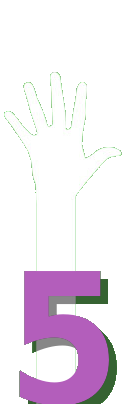
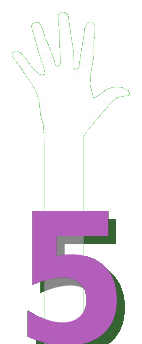
fix(ui): Vote-Counting-Fingers ohne Vollflächen-Kachel (#346)
* fix(ui): Vote-Counting-Fingers ohne Vollflächen-Kachel

Die spielerischen Finger deckten Abstimmen mit einer Primary-Kachel zu; jetzt schmal, light-only Kontrast und bündig unten links.

* fix(ui): Kontrast für Host-/Projection-Finger wiederherstellen

large und present bekommen wieder eine eng anliegende Light-Kontrastfläche; Vote-small bleibt schmal und bündig unten.

* fix(ui): Counting-Fingers-Hintergrund auf Theme-Primary

Ersetzt inverse-surface durch --mat-sys-primary für Light-Kontrast hinter den Finger-Grafiken.

* fix(ui): Counting-Fingers-Assets auf Content mit gleichem Padding zuschneiden

Entfernt die große transparente Kopfzone der PNGs und setzt CSS-Padding ringsum gleichmäßig, damit der Primary-Hintergrund eng an der Hand sitzt.

* fix(ui): Counting-Fingers-Ecken oben stark rund, unten eckig

Primary-Hintergrund mit extra-large Radius oben und ohne Abrundung unten.

* fix(ui): Host-Finger bündig an die Fragekarte setzen

Hebt den mobilen Stack-Gap unter dem Finger-Countdown auf und entfernt das untere Padding der Large-Variante.

* fix(ui): Finger-Primary immer, unten bündig an Footer bzw. Karte

Primary-Hintergrund auch in Dark Mode; kein unteres Padding. Vote sitzt am Viewport-/Footer-Unterrand, Host-Large bündig an der Fragekarte.

* fix(ui): Counting-Fingers wieder transparent und unten bündig

Kein Primary-Hintergrund mehr (Playful-Kontrast reicht); Assets unten ohne Padding, Vote/Host ohne unteren Gap.
[…]

diff --git a/apps/frontend/src/app/shared/countdown-fingers/countdown-fingers.component.ts b/apps/frontend/src/app/shared/countdown-fingers/countdown-fingers.component.ts
@@ -48,8 +48,8 @@ const FINGER_IMAGES: Record<number, string> = {
       :host.countdown-fingers-host--viewport {
         display: block;
         position: fixed;
-        /* Fallback ohne Anchor-API (Footer-Höhe variiert) */
-        bottom: max(5.5rem, env(safe-area-inset-bottom, 0px));
+        /* Bündig am unteren Viewport-Rand, kein Footer-/Safe-Area-Abstand */
+        bottom: 0;
         /* Linke Flucht wie .vote-page-Inhalt (zentrierte Spalte + horizontales Padding), nicht Viewport-Kante */
         left: calc(
           (100vw - min(100vw, var(--vote-page-max-width, 36rem))) / 2 +
@@ -59,23 +59,14 @@ const FINGER_IMAGES: Record<number, string> = {
         pointer-events: none;
       }
 
-      @supports (position-anchor: --_) {
-        :host.countdown-fingers-host--viewport {
-          position-anchor: --app-footer-anchor;
-          bottom: anchor(top);
-        }
-      }
-
       .countdown-fingers {
         display: flex;
         align-items: center;
         justify-content: center;
         box-sizing: border-box;
-        border-radius: 0.8rem;
-        background-color: light-dark(
-          var(--mat-sys-primary),
-          var(--mat-sys-surface-container-highest)
-        );
+        width: fit-content;
+        max-width: max-content;
+        background: transparent;
         pointer-events: none;
         user-select: none;
       }
@@ -86,7 +77,8 @@ const FINGER_IMAGES: Record<number, string> = {
       }
 
       .countdown-fingers--large {
-        padding: 0.45rem;
+        padding: 0;
+        background: transparent;
 
         .countdown-fingers__img {
           width: 120px;
@@ -96,19 +88,24 @@ const FINGER_IMAGES: Record<number, string> = {
       }
 
       .countdown-fingers--small {
-        padding: 0.3rem;
+        padding: 0;
+        background: transparent;
 
         .countdown-fingers__img {
-          width: 56px;
+          /* Kompakt unten links; Asset unten bündig am Content. */
+          width: 48px;
           height: auto;
         }
       }
 
       .countdown-fingers--present {
-        width: 100%;
-        height: 100%;
+        width: fit-content;
+        height: fit-content;
+        max-width: 100%;
+        max-height: 100%;
         min-height: 0;
-        padding: clamp(0.45rem, 1.4vmin, 0.9rem);
+        padding: 0;
+        background: transparent;
 
         .countdown-fingers__img {
           width: auto;

diff --git a/apps/frontend/src/app/shared/countdown-fingers/countdown-fingers.component.spec.ts b/apps/frontend/src/app/shared/countdown-fingers/countdown-fingers.component.spec.ts
@@ -1,4 +1,6 @@
 import { TestBed } from '@angular/core/testing';
+import { readFileSync } from 'node:fs';
+import { resolve } from 'node:path';
 import { describe, expect, it } from 'vitest';
 import { CountdownFingersComponent } from './countdown-fingers.component';
 
@@ -24,5 +26,34 @@ describe('CountdownFingersComponent', () => {
     expect(fixture.nativeElement.querySelector('[role="img"]').getAttribute('aria-label')).toBe(
       '1 Sekunde, durch einen Finger dargestellt',
     );
+  });
+
+  it('hält Vote-Fingers transparent, bündig unten links', () => {
+    const fixture = TestBed.createComponent(CountdownFingersComponent);
+    fixture.componentRef.setInput('seconds', 4);
+    fixture.componentRef.setInput('size', 'small');
+    fixture.detectChanges();
+
+    const host = fixture.nativeElement as HTMLElement;
+    expect(host.classList.contains('countdown-fingers-host--viewport')).toBe(true);
+
+    const styles = readFileSync(
+      resolve(process.cwd(), 'src/app/shared/countdown-fingers/countdown-fingers.component.ts'),
+      'utf8',
+    );
+
+    expect(styles).toMatch(/countdown-fingers-host--viewport[\s\S]*?position:\s*fixed/);
+    expect(styles).toMatch(/countdown-fingers-host--viewport[\s\S]*?bottom:\s*0;/);
+    expect(styles).not.toMatch(/bottom:\s*max\(5\.5rem/);
+    expect(styles).not.toMatch(/position-anchor:\s*--app-footer-anchor/);
+    expect(styles).toMatch(/countdown-fingers-host--viewport[\s\S]*?left:\s*calc\(/);
+    expect(styles).toMatch(/width:\s*fit-content/);
+    expect(styles).toMatch(/countdown-fingers--small[\s\S]*?background:\s*transparent/);
+    expect(styles).toMatch(/countdown-fingers--large[\s\S]*?background:\s*transparent/);
+    expect(styles).toMatch(/countdown-fingers--present[\s\S]*?background:\s*transparent/);
+    expect(styles).not.toMatch(/background:\s*var\(--mat-sys-primary\)/);
+    expect(styles).toMatch(/countdown-fingers--small[\s\S]*?padding:\s*0/);
+    expect(styles).toMatch(/countdown-fingers--small[\s\S]*?width:\s*48px/);
+    expect(styles).toMatch(/countdown-fingers--present[\s\S]*?width:\s*fit-content/);
   });
 });

diff --git a/apps/frontend/src/app/features/session/session-host/session-host.component.scss b/apps/frontend/src/app/features/session/session-host/session-host.component.scss
@@ -279,6 +279,7 @@
   .session-host__run {
     gap: var(--host-mobile-stack-gap);
     padding-bottom: var(--host-mobile-safe-bottom);
+    --session-host-finger-to-card-gap: var(--host-mobile-stack-gap);
   }
 
   .session-host--with-channel-tabs .session-host__channel-panel {
@@ -2865,6 +2866,7 @@
   display: flex;
   flex-direction: column;
   gap: 0;
+  --session-host-finger-to-card-gap: 0px;
 }
 
 .session-host__meta-sound-control {
@@ -5149,7 +5151,22 @@ button.session-host__btn-discussion {
 .session-host__finger-countdown {
   display: flex;
   justify-content: center;
+  align-items: flex-end;
   margin: 0;
+  /* Bündig an die folgende Fragekarte; hebt den Run-Stack-Gap darunter auf. */
+  margin-bottom: calc(-1 * var(--session-host-finger-to-card-gap, 0px));
+  line-height: 0;
+}
+
+.session-host__finger-countdown + .session-host__question-card,
+.session-host__finger-countdown + .session-host__qa-card {
+  margin-top: 0;
+}
+
+/* Falls zwischen Finger und Karte noch ein Banner steht: Gap nur zur Karte schließen. */
+.session-host__finger-countdown + .session-host__discussion-banner + .session-host__question-card,
+.session-host__finger-countdown + .session-host__discussion-banner + .session-host__qa-card {
+  margin-top: 0;
 }
 
 .session-host__rating {

diff --git a/apps/frontend/src/app/features/session/session-present/session-projection-quiz.component.spec.ts b/apps/frontend/src/app/features/session/session-present/session-projection-quiz.component.spec.ts
@@ -533,6 +533,17 @@ describe('SessionProjectionQuizComponent', () => {
     expect(stage.classList.contains('session-projection-quiz--fingers')).toBe(true);
     expect(fixture.nativeElement.querySelector('app-countdown-fingers')).toBeTruthy();
     expect(fixture.nativeElement.querySelector('.session-projection-quiz__countdown')).toBeNull();
+    expect(fixture.nativeElement.querySelector('.session-projection-quiz__fingers')).toBeTruthy();
+    const styles = readFileSync(
+      resolve(
+        process.cwd(),
+        'src/app/features/session/session-present/session-projection-quiz.component.scss',
+      ),
+      'utf8',
+    );
+    expect(styles).toMatch(
+      /\.session-projection-quiz__fingers\s*\{[\s\S]*?light-dark\(\s*var\(--mat-sys-primary\)/,
+    );
   });
 
   it('legt Codefragen dreispaltig an: Frage, Code, Antworten', () => {

diff --git a/apps/frontend/src/app/features/feedback/feedback-host.component.html b/apps/frontend/src/app/features/feedback/feedback-host.component.html
@@ -336,9 +336,6 @@
                   <div
                     class="feedback-host__join-menu-head dialog-title-header feedback-host__join-menu-title-header"
                   >
-                    <span class="dialog-title-header__icon" aria-hidden="true">
-                      <mat-icon>qr_code_2</mat-icon>
-                    </span>
                     <div class="dialog-title-header__copy feedback-host__join-menu-title-copy">
                       <p id="feedback-host-join-origin" class="feedback-host__join-menu-origin">
                         {{ joinOriginForMenu() }}

diff --git a/apps/frontend/src/app/features/session/session-present/session-projection-quiz.component.scss b/apps/frontend/src/app/features/session/session-present/session-projection-quiz.component.scss
@@ -1178,6 +1178,16 @@
   min-height: 0;
 }
 
+/* Presenter Light: Finger-Spalte in Theme-Primary (Playful-Kontrast der Hand). */
+.session-projection-quiz__fingers {
+  --mat-card-outlined-container-color: light-dark(var(--mat-sys-primary), var(--mat-sys-surface));
+  background: light-dark(var(--mat-sys-primary), var(--mat-sys-surface));
+  border-color: light-dark(
+    color-mix(in srgb, var(--mat-sys-primary) 82%, var(--mat-sys-outline)),
+    var(--mat-sys-outline-variant)
+  );
+}
+
 .session-projection-quiz__code {
   overflow: hidden;
 }

diff --git a/apps/frontend/src/app/features/session/session-present/session-projection-quiz.component.ts b/apps/frontend/src/app/features/session/session-present/session-projection-quiz.component.ts
@@ -437,7 +437,7 @@ export class SessionProjectionQuizComponent {
       return null;
     }
     if (question.numericInputType === 'INTEGER') {
-      return $localize`:@@sessionVote.numericFormatInteger:Gib eine ganze Zahl ohne Nachkommastellen ein.`;
+      return $localize`:@@sessionVote.numericFormatInteger:Gib eine Zahl ohne Nachkommastellen ein.`;
     }
     const maxDecimalPlaces = question.numericDecimalPlaces;
     if (maxDecimalPlaces !== undefined && maxDecimalPlaces !== null) {

diff --git a/apps/frontend/src/app/features/session/session-vote/session-vote.component.spec.ts b/apps/frontend/src/app/features/session/session-vote/session-vote.component.spec.ts
@@ -3108,7 +3108,7 @@ describe('SessionVoteComponent', { timeout: 30_000 }, () => {
     );
     const host = fixture.nativeElement as HTMLElement;
     expect(host.textContent).toContain('Ganzzahl');
-    expect(host.textContent).toContain('Gib eine ganze Zahl ohne Nachkommastellen ein');
+    expect(host.textContent).toContain('Gib eine Zahl ohne Nachkommastellen ein');
     expect(host.textContent).toContain('Erlaubte Eingabe: 0 bis 100');
 
     component.numericInputValue.set('3.14');

diff --git a/apps/frontend/src/app/features/feedback/feedback-host.component.spec.ts b/apps/frontend/src/app/features/feedback/feedback-host.component.spec.ts
@@ -356,6 +356,11 @@ describe('FeedbackHostComponent', () => {
     expect(fixture.componentInstance.feedbackJoinPopoverOpen()).toBe(true);
     expect(fixture.nativeElement.textContent).toContain('1 Stimme');
     expect(fixture.nativeElement.querySelectorAll('.cdk-focus-trap-anchor')).toHaveLength(2);
+    expect(
+      fixture.nativeElement.querySelector(
+        '.feedback-host__join-menu-head .dialog-title-header__icon',
+      ),
+    ).toBeNull();
     fixture.destroy();
   });
 

diff --git a/apps/frontend/src/app/features/session/session-vote/session-vote.component.ts b/apps/frontend/src/app/features/session/session-vote/session-vote.component.ts
@@ -2072,7 +2072,7 @@ export class SessionVoteComponent implements OnInit, OnDestroy {
 
   numericInputFormatHint(): string {
     if (this.numericIsInteger()) {
-      return $localize`:@@sessionVote.numericFormatInteger:Gib eine ganze Zahl ohne Nachkommastellen ein.`;
+      return $localize`:@@sessionVote.numericFormatInteger:Gib eine Zahl ohne Nachkommastellen ein.`;
     }
     const maxDecimalPlaces = this.numericQuestionMaxDecimalPlaces();
     if (maxDecimalPlaces !== null) {
